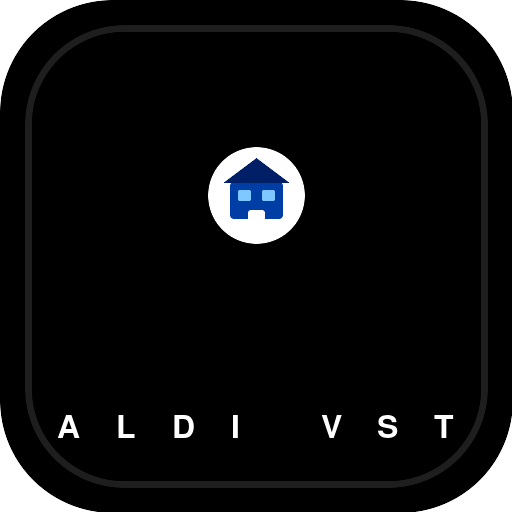
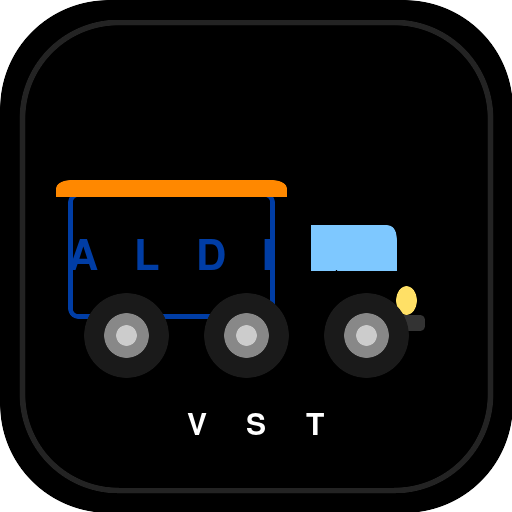
Add files via upload

diff --git a/sw.js b/sw.js
@@ -1,4 +1,4 @@
-const C='aldi-vst-icon-v2';
+const C='aldi-vst-truck-v1';
 const A=['./','./index.html','./manifest.json','./icon-192.png','./icon-512.png','./apple-touch-icon.png'];
 self.addEventListener('install',e=>{e.waitUntil(caches.open(C).then(c=>c.addAll(A)).then(()=>self.skipWaiting()));});
 self.addEventListener('activate',e=>{e.waitUntil(caches.keys().then(k=>Promise.all(k.filter(x=>x!==C).map(x=>caches.delete(x)))).then(()=>self.clients.claim()));});
